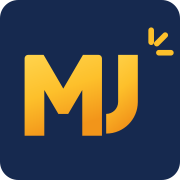
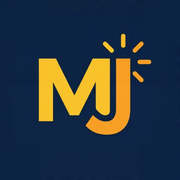
feat: 원본 MJ 아이콘 적용 및 팔레트 정밀 보정
직접 그린 SVG 마크 대신 제공받은 원본 아이콘 이미지를 사용한다.

- public/myjane-icon.png(512) 원본에서 icon-192 / apple-touch-icon(180) /
  favicon-32 / app/icon.png(256) 생성
- 직접 제작했던 myjane-mark.svg·app/icon.svg 제거
- 팔레트를 원본 이미지에서 추출한 값으로 보정
  네이비 #0c2343, 앰버 #f9c22a(진한 쪽 #f8a024)
- 히어로 타일에 테두리·그림자 추가 — 아이콘 배경이 페이지 배경과 거의 같아
  JPEG 압축 자국이 흐릿한 사각형으로 비치던 문제 해결
- README: 아이콘 에셋 표와 재생성 명령 갱신

diff --git a/app/globals.css b/app/globals.css
@@ -1,25 +1,26 @@
 /*
  * myjane 브랜드 색 — 아이콘(MJ 마크)에서 가져왔다.
- *  - 네이비 #16294F : 아이콘 배경
- *  - 앰버   #FDC02B : 모노그램 (밝은 #FFD24A ~ 진한 #F2951A 그라디언트)
+ *  - 네이비 #0c2343 : 아이콘 배경
+ *  - 앰버   #f9c22a : 모노그램 (진한 쪽 #f8a024)
+ * 값은 아이콘 원본 이미지에서 추출했다.
  *
  * 라이트 모드에서는 앰버가 흰 배경 위에서 대비가 부족하므로,
  * 텍스트용 강조색은 어둡게 조정한 값(--accent-ink)을 따로 둔다.
  */
 
 :root {
-  --bg: #0f1e3d;
-  --surface: #17294c;
-  --surface-hover: #1d3159;
+  --bg: #0c2343;
+  --surface: #143059;
+  --surface-hover: #1a3a68;
   --border: rgba(255, 255, 255, 0.12);
-  --border-strong: rgba(253, 192, 43, 0.55);
+  --border-strong: rgba(249, 194, 42, 0.55);
   --text: #ffffff;
-  --text-dim: #a8b6d4;
-  --accent: #fdc02b;
-  --accent-ink: #fdc02b;
-  --accent-soft: rgba(253, 192, 43, 0.14);
-  --gold-from: #ffd24a;
-  --gold-to: #f2951a;
+  --text-dim: #a3b3d2;
+  --accent: #f9c22a;
+  --accent-ink: #f9c22a;
+  --accent-soft: rgba(249, 194, 42, 0.14);
+  --gold-from: #f9c22a;
+  --gold-to: #f8a024;
 }
 
 @media (prefers-color-scheme: light) {
@@ -27,15 +28,15 @@
     --bg: #f4f6fc;
     --surface: #ffffff;
     --surface-hover: #fbfcff;
-    --border: rgba(22, 41, 79, 0.1);
-    --border-strong: rgba(242, 149, 26, 0.6);
-    --text: #16294f;
+    --border: rgba(12, 35, 67, 0.1);
+    --border-strong: rgba(248, 160, 36, 0.6);
+    --text: #0c2343;
     --text-dim: #5d6c8c;
-    --accent: #f2951a;
-    --accent-ink: #a2620a;
-    --accent-soft: rgba(253, 192, 43, 0.2);
-    --gold-from: #f2a81a;
-    --gold-to: #d97c08;
+    --accent: #f8a024;
+    --accent-ink: #9c6206;
+    --accent-soft: rgba(249, 194, 42, 0.2);
+    --gold-from: #d99a10;
+    --gold-to: #b06d05;
   }
 }
 
@@ -81,11 +82,17 @@ a {
   max-width: 520px;
 }
 
+/*
+ * 아이콘 배경(네이비)이 페이지 배경과 거의 같아 경계가 흐릿하게 비친다.
+ * 테두리와 그림자를 줘서 앱 아이콘 타일처럼 또렷하게 보이도록 한다.
+ */
 .mark {
-  width: 76px;
-  height: 76px;
-  border-radius: 20px;
-  margin-bottom: 18px;
+  width: 84px;
+  height: 84px;
+  border-radius: 22px;
+  margin-bottom: 20px;
+  border: 1px solid var(--border);
+  box-shadow: 0 10px 28px rgba(0, 0, 0, 0.35);
 }
 
 .wordmark {

diff --git a/app/layout.tsx b/app/layout.tsx
@@ -18,7 +18,6 @@ export const metadata: Metadata = {
   alternates: { canonical: SITE_URL },
   icons: {
     icon: [
-      { url: "/icon.svg", type: "image/svg+xml" },
       { url: "/favicon-32.png", sizes: "32x32", type: "image/png" },
       { url: "/icon-192.png", sizes: "192x192", type: "image/png" },
     ],
@@ -28,7 +27,7 @@ export const metadata: Metadata = {
 
 export const viewport: Viewport = {
   themeColor: [
-    { media: "(prefers-color-scheme: dark)", color: "#0f1e3d" },
+    { media: "(prefers-color-scheme: dark)", color: "#0c2343" },
     { media: "(prefers-color-scheme: light)", color: "#f4f6fc" },
   ],
 };

diff --git a/app/page.tsx b/app/page.tsx
@@ -36,10 +36,10 @@ export default function Home() {
       <header className="hero">
         <Image
           className="mark"
-          src="/myjane-mark.svg"
+          src="/myjane-icon.png"
           alt=""
-          width={76}
-          height={76}
+          width={84}
+          height={84}
           priority
         />
         <h1 className="wordmark">

diff --git a/README.md b/README.md
@@ -34,14 +34,25 @@ npm run dev      # http://localhost:3002
 
 ### 아이콘 에셋
 
-`public/myjane-mark.svg`가 원본이고, 나머지 PNG는 여기서 생성한다.
-마크를 수정하면 아래 명령으로 다시 뽑는다(`sharp` 필요).
+`public/myjane-icon.png`(512px)가 원본이고 나머지는 여기서 파생한다.
+
+| 파일 | 용도 |
+|---|---|
+| `public/myjane-icon.png` | 원본 512px, 페이지 히어로에 사용 |
+| `public/icon-192.png` | PWA·안드로이드 홈 화면 |
+| `public/apple-touch-icon.png` | iOS 홈 화면 (180px) |
+| `public/favicon-32.png` | 브라우저 탭 |
+| `app/icon.png` | Next.js 파일 규칙 파비콘 (256px) |
+
+아이콘을 교체하면 512px 원본을 `public/myjane-icon.png`로 덮어쓴 뒤
+아래 명령으로 나머지를 다시 만든다(`sharp` 필요).
 
 ```bash
-node -e "const s=require('sharp');[[32,'favicon-32.png'],[180,'apple-touch-icon.png'],[192,'icon-192.png'],[512,'icon-512.png']].forEach(([n,f])=>s('public/myjane-mark.svg',{density:600}).resize(n,n).png().toFile('public/'+f))"
+node -e "const s=require('sharp');[[192,'public/icon-192.png'],[180,'public/apple-touch-icon.png'],[32,'public/favicon-32.png'],[256,'app/icon.png']].forEach(([n,p])=>s('public/myjane-icon.png').resize(n,n).png().toFile(p))"
 ```
 
-`app/icon.svg`는 파비콘용 복사본이므로 마크를 바꾸면 함께 갱신한다.
+아이콘 배경(네이비)이 페이지 배경과 거의 같아, 히어로의 타일은
+`.mark`의 테두리·그림자로 경계를 만든다.
 
 링크 대상을 바꾸거나 앱을 추가하려면 [app/page.tsx](app/page.tsx)의 `APPS` 배열만 수정하면 된다.
 
